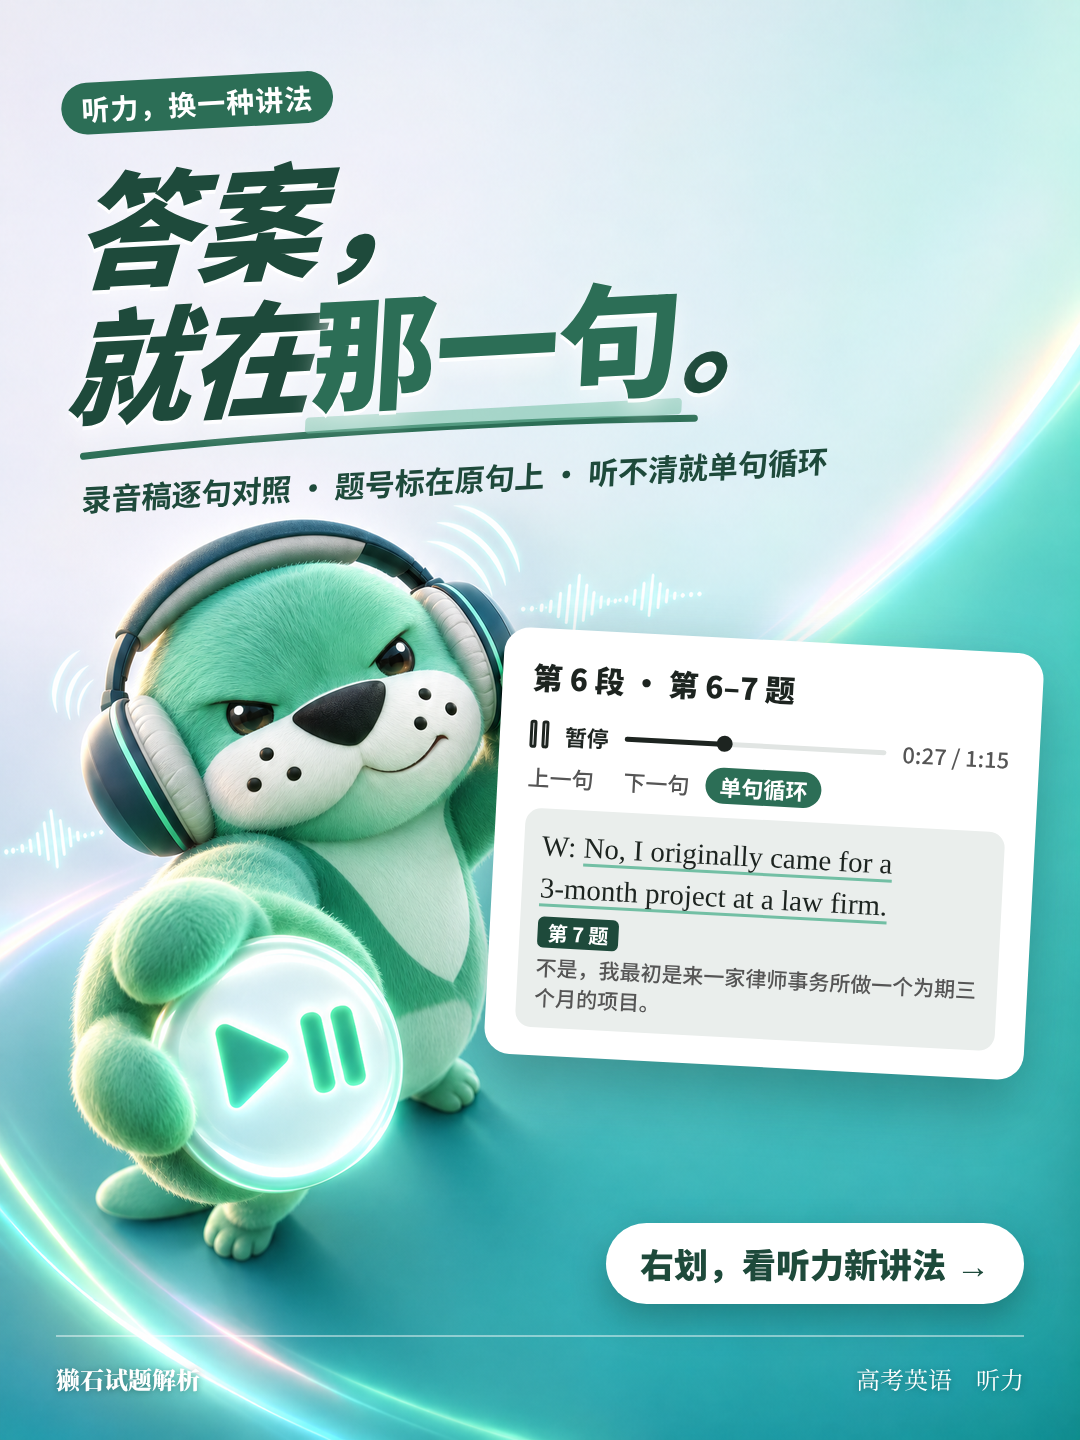
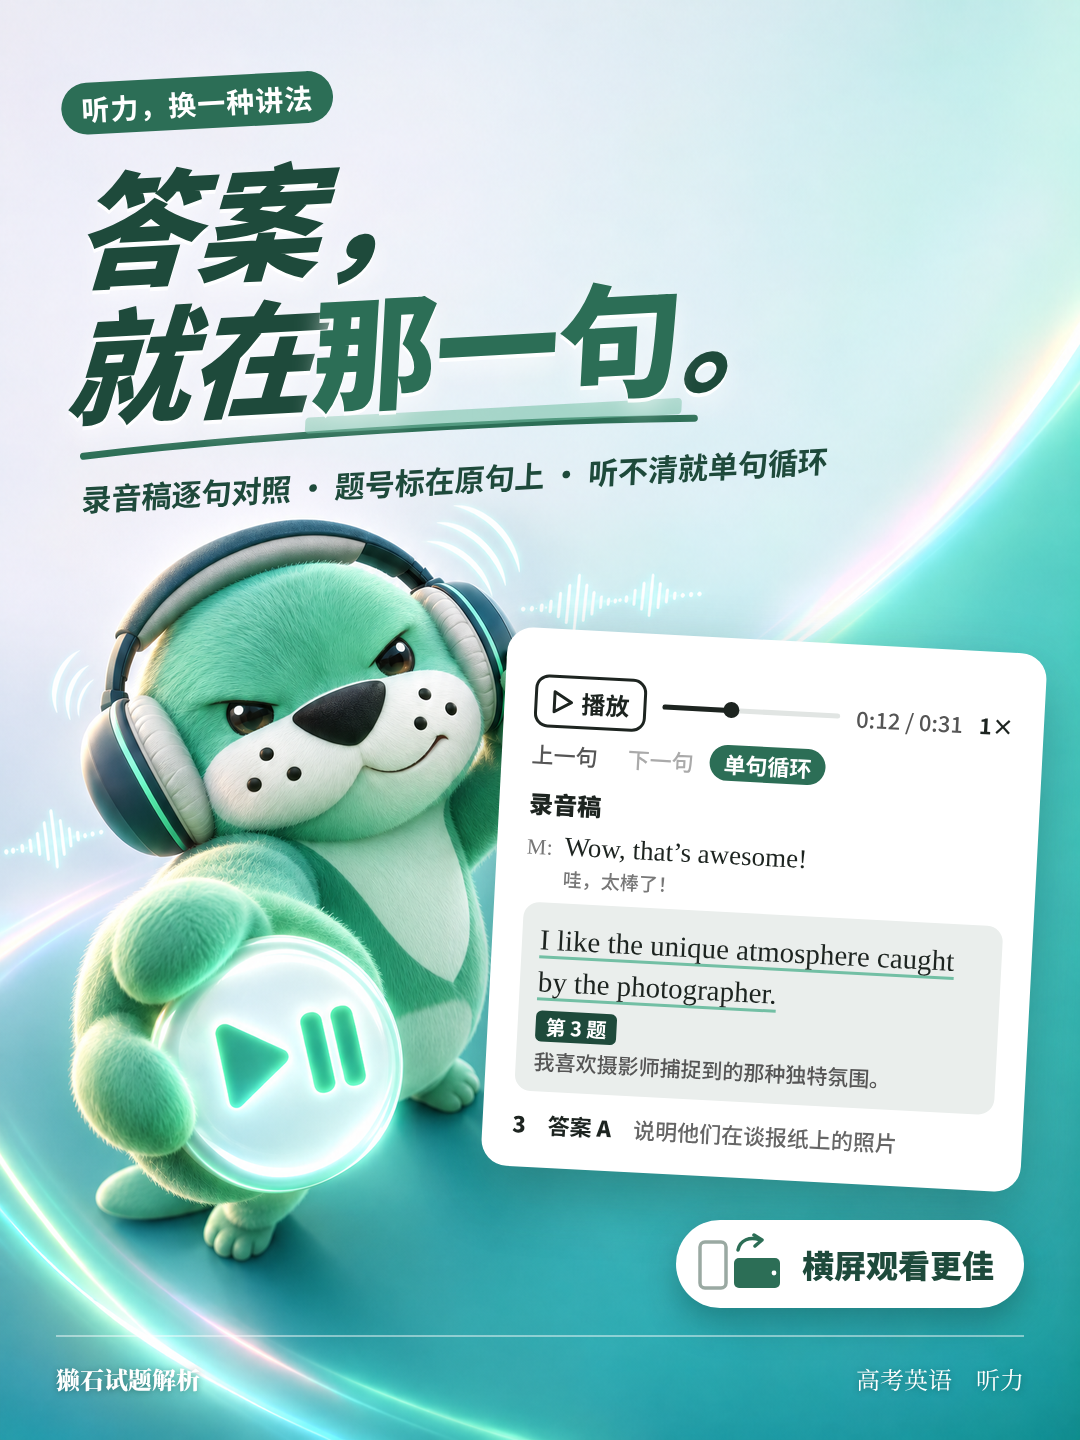
Turn the listening cover into a video cover
Swap the swipe prompt for a rotate-to-landscape badge and update the
player card to the new demo clip.

Claude-Session: https://claude.ai/code/session_01Ct2ZKAR8eRNsJG4UDaFzH4

Changed region(s): [[0.4278, 0.4375, 0.9778, 0.9375]]

diff --git a/design/social-2026-11-22/listening-cover/cover3.html b/design/social-2026-11-22/listening-cover/cover3.html
@@ -22,7 +22,7 @@ h1 em::after{content:"";position:absolute;left:-4px;right:-4px;bottom:6px;height
 .player{display:flex;align-items:center;gap:16px;margin:20px 0 10px;font:500 22px SS;color:#555}
 .pz{display:flex;gap:5px}.pz i{width:7px;height:28px;border:3px solid #1d2420;border-radius:3px}
 .bar{flex:1;height:5px;background:#E1E5E3;border-radius:3px;position:relative}
-.bar b{position:absolute;left:0;top:0;bottom:0;width:38%;background:#1d2420;border-radius:3px}
+.bar b{position:absolute;left:0;top:0;bottom:0;width:39%;background:#1d2420;border-radius:3px}
 .bar b::after{content:"";position:absolute;right:-8px;top:-6px;width:16px;height:16px;border-radius:50%;background:#1d2420}
 .btns{display:flex;gap:30px;font:500 22px SS;color:#555;margin-bottom:16px}
 .btns .on{color:#fff;background:var(--deep);border-radius:999px;padding:2px 14px;margin:-2px -14px;font-weight:700}
@@ -35,6 +35,12 @@ h1 em::after{content:"";position:absolute;left:-4px;right:-4px;bottom:6px;height
 .cta span{margin-left:10px}
 .foot{position:absolute;left:56px;right:56px;bottom:44px;border-top:2px solid rgba(255,255,255,.45);padding-top:24px;display:flex;justify-content:space-between;font:500 24px NS;color:#fff;text-shadow:0 1px 6px rgba(0,40,30,.4)}
 .foot b{font-weight:900}
+.playbtn{display:flex;align-items:center;gap:8px;border:3px solid #1d2420;border-radius:14px;padding:6px 14px;font:700 24px SS;color:#1d2420}
+.t2{font:900 24px SS;margin:4px 0 10px}
+.line{display:flex;gap:12px;margin-bottom:12px}.sp{font-size:22px;color:#777;padding-top:4px}
+.en0{font-size:27px}.zh0{font:500 19px SS;color:#777;margin-top:2px}
+.ans{margin-top:16px;font:700 22px SS;color:#1d2420}.ans span{font-weight:500;color:#666}
+.rot{position:absolute;right:56px;bottom:132px;display:flex;align-items:center;gap:16px;background:#fff;color:var(--ink);border-radius:999px;font:900 32px SS;padding:12px 30px 12px 18px;box-shadow:0 14px 34px rgba(10,50,40,.35)}
 </style></head><body>
 <div class="bg"></div>
 <div class="head">
@@ -44,11 +50,18 @@ h1 em::after{content:"";position:absolute;left:-4px;right:-4px;bottom:6px;height
   <div class="sub">录音稿逐句对照 · 题号标在原句上 · 听不清就单句循环</div>
 </div>
 <div class="ui">
-  <div class="t">第 6 段 · 第 6–7 题</div>
-  <div class="player"><span class="pz"><i></i><i></i></span><span style="font-weight:700;color:#1d2420">暂停</span><span class="bar"><b></b></span><span>0:27 / 1:15</span></div>
-  <div class="btns"><span>上一句</span><span>下一句</span><span class="on">单句循环</span></div>
-  <div class="hl"><div class="en">W: <u>No, I originally came for a <span style="white-space:nowrap">3-month</span> project at a law firm.</u></div><span class="q">第 7 题</span><div class="zh">不是，我最初是来一家律师事务所做一个为期三个月的项目。</div></div>
+  <div class="player"><span class="playbtn"><svg width="22" height="24" viewBox="0 0 22 24"><path d="M3 2 L20 12 L3 22 Z" fill="none" stroke="#1d2420" stroke-width="3" stroke-linejoin="round"/></svg>播放</span><span class="bar"><b></b></span><span>0:12 / 0:31</span><span style="font-weight:700;color:#1d2420">1×</span></div>
+  <div class="btns"><span>上一句</span><span style="color:#aaa">下一句</span><span class="on">单句循环</span></div>
+  <div class="t2">录音稿</div>
+  <div class="line"><span class="sp">M:</span><div><div class="en0">Wow, that’s awesome!</div><div class="zh0">哇，太棒了！</div></div></div>
+  <div class="hl"><div class="en"><u>I like the unique atmosphere caught by the photographer.</u></div><span class="q">第 3 题</span><div class="zh">我喜欢摄影师捕捉到的那种独特氛围。</div></div>
+  <div class="ans"><b>3</b>　答案 <b>A</b><span>　说明他们在谈报纸上的照片</span></div>
 </div>
-<div class="cta">右划，看听力新讲法<span>→</span></div>
+<div class="rot"><svg width="92" height="64" viewBox="0 0 92 64">
+<rect x="6" y="10" width="26" height="46" rx="5" fill="none" stroke="#9AA9A2" stroke-width="3.5"/>
+<rect x="40" y="26" width="46" height="30" rx="5" fill="#2C6E56"/><circle cx="80" cy="41" r="2.4" fill="#fff"/>
+<path d="M44 18 C46 8 56 4 66 8" fill="none" stroke="#2C6E56" stroke-width="3.5" stroke-linecap="round"/>
+<path d="M60 3 L68 8 L61 14" fill="none" stroke="#2C6E56" stroke-width="3.5" stroke-linecap="round" stroke-linejoin="round"/>
+</svg>横屏观看更佳</div>
 <div class="foot"><b>獭石试题解析</b><span>高考英语　听力</span></div>
 </body></html>
